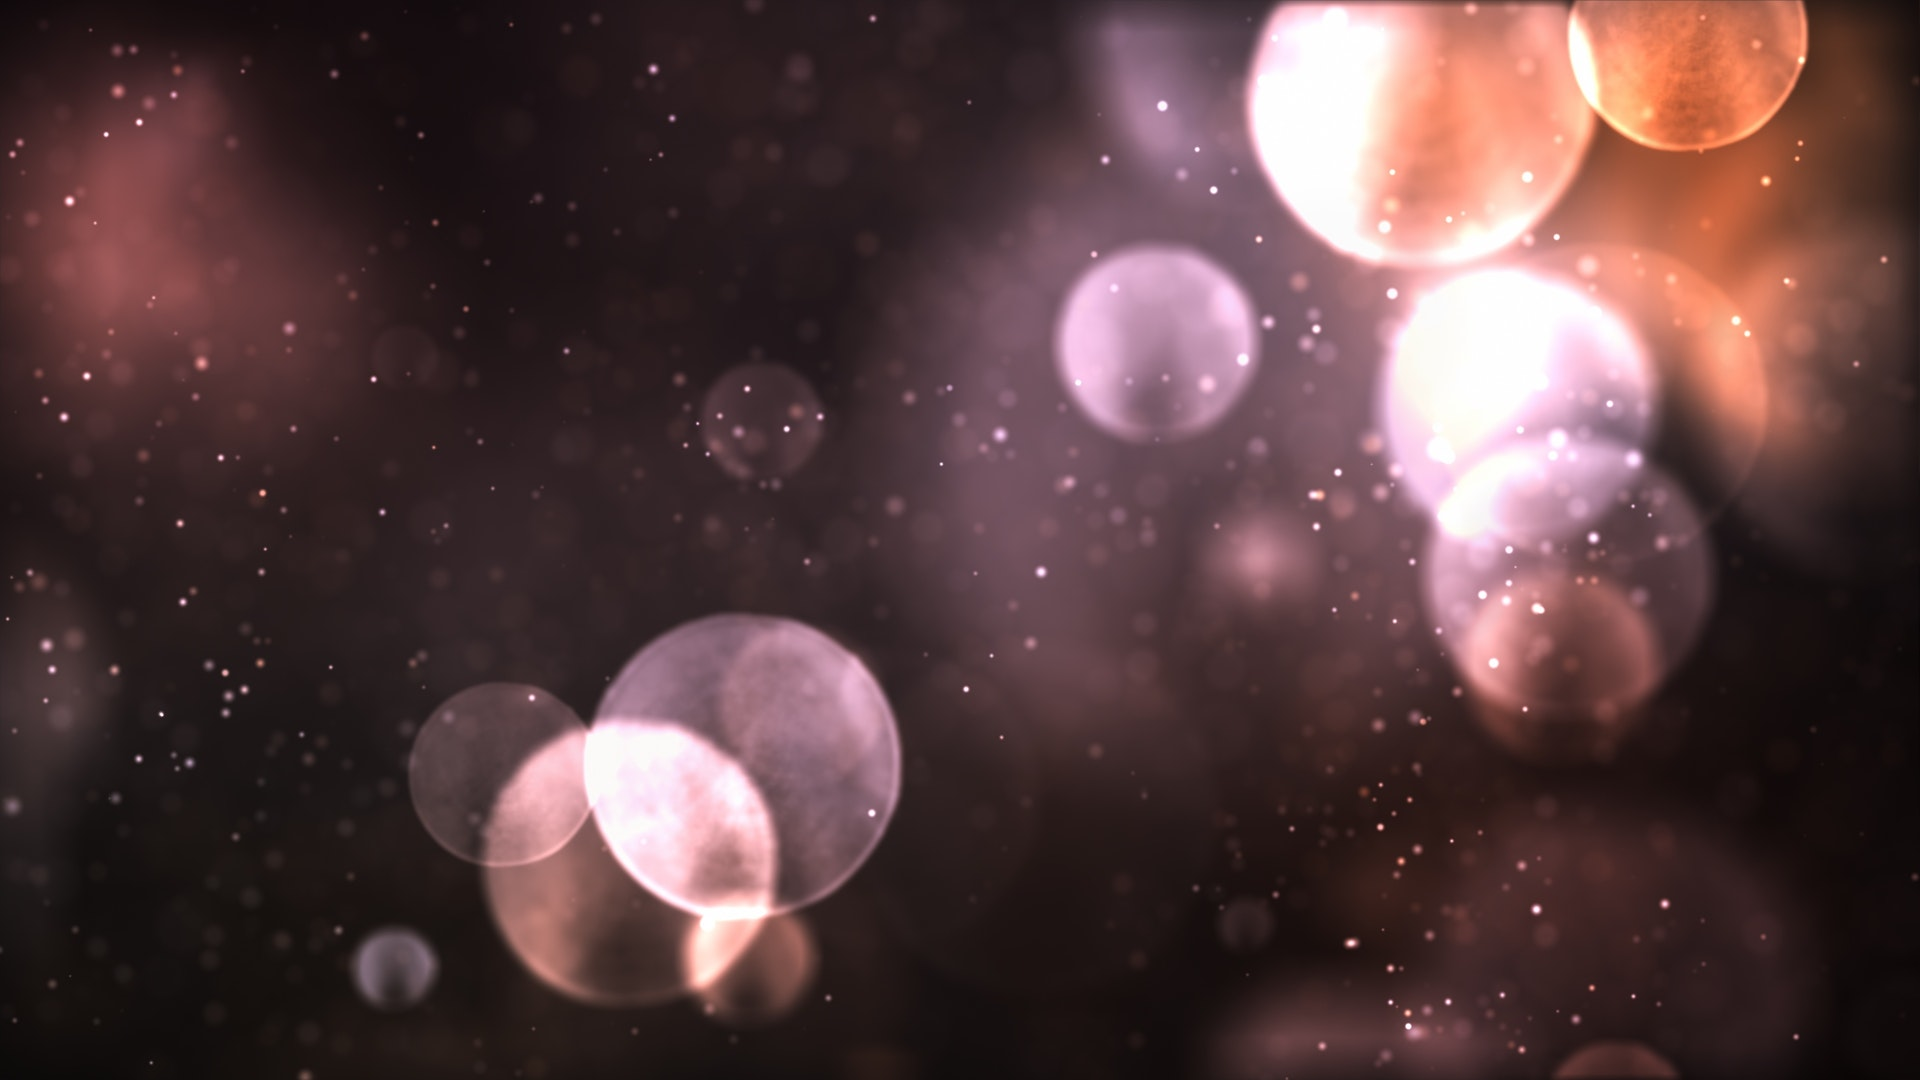
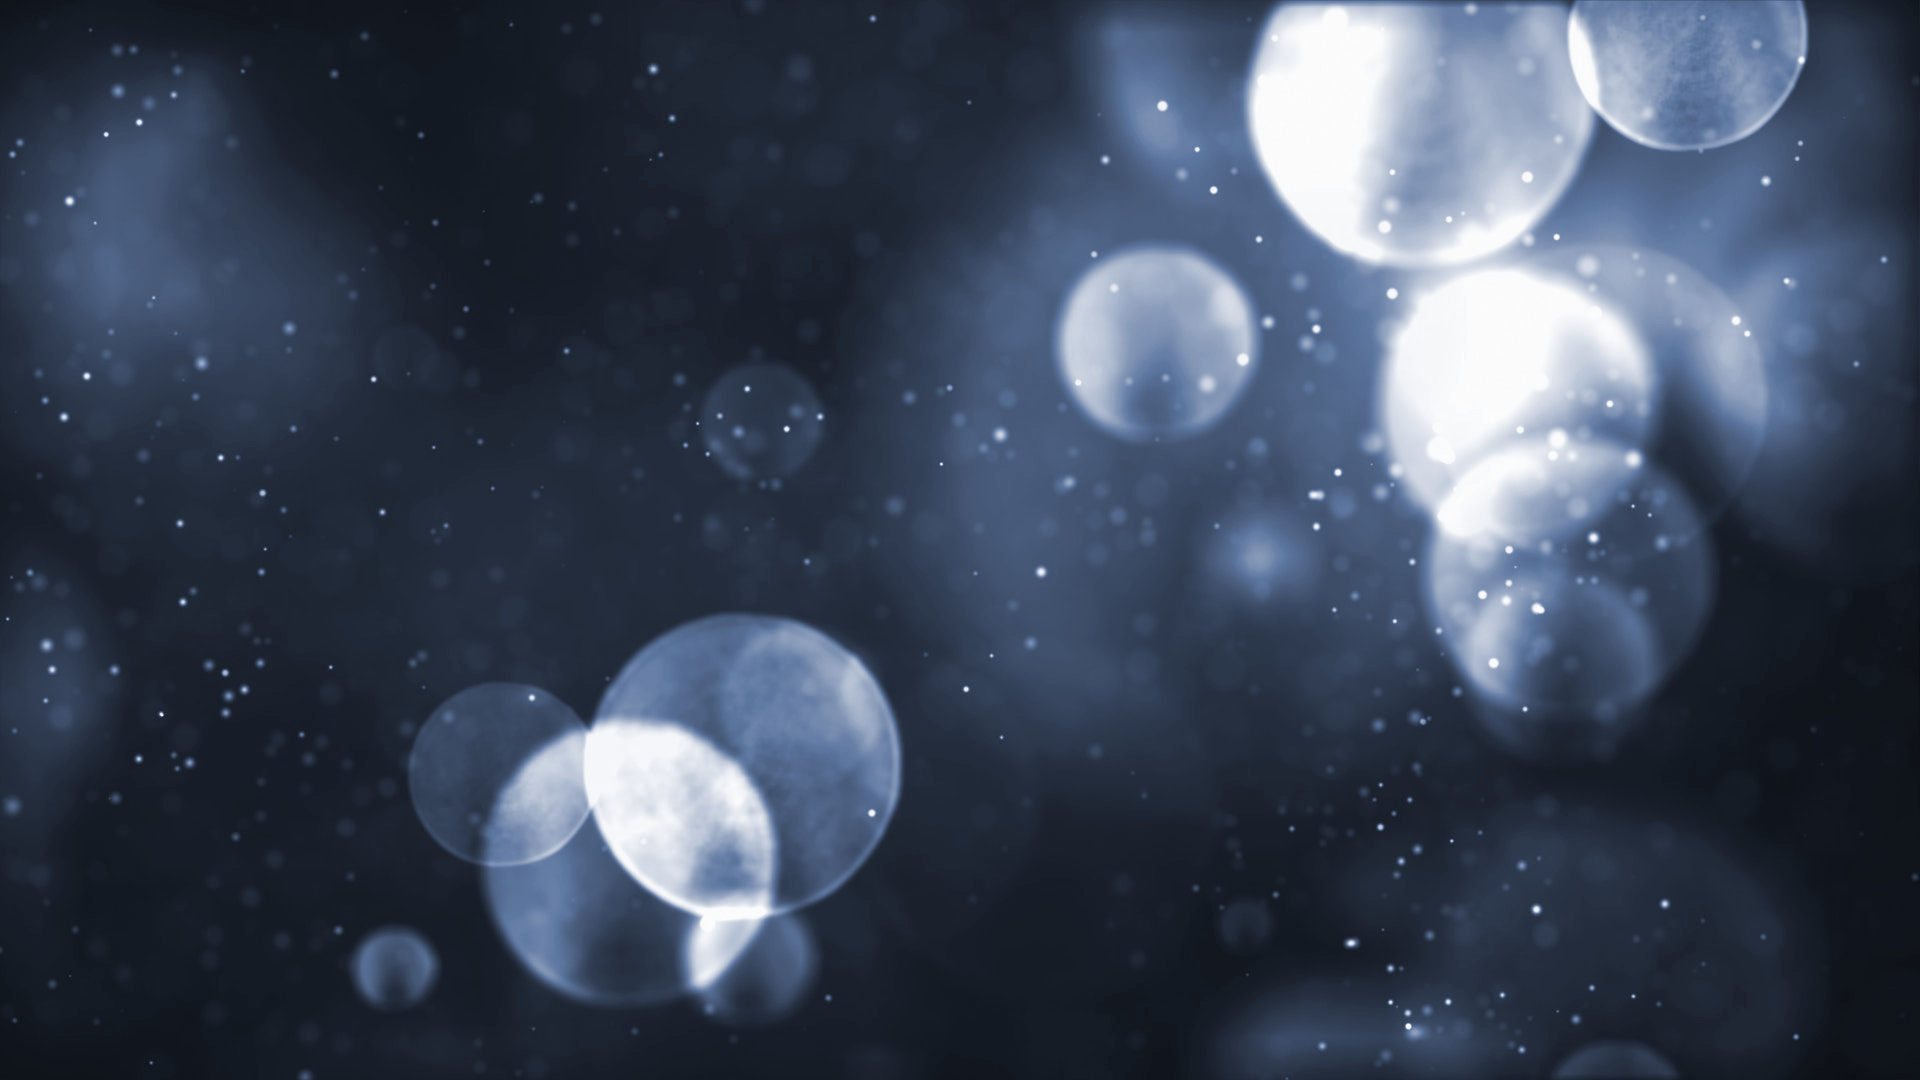
skills update

diff --git a/index.html b/index.html
@@ -66,48 +66,135 @@
       </div>
     </div>
 
-    <section class="section section-dark">
+    <section class="section section-dark" id="skillset">
       <div class="container">
         <div class="row">
-          <div class="col-sm-4">
+          <div class="col">
             <h3 class="header">Languages</h3>
             <ul class="list-group">
               <li class="list-group-item">
-                <img class="icon" src="./img/c-logo.png">
-
+                <div class="row">
+                  <div class="col-sm-12">
+                    <img class="icon" src="./img/c-logo.png">
+                  </div>
+                  <div class="col-sm-12">
+                    <strong>
+                      C/C++
+                    </strong>
+                  </div>
+                </div>
               </li>
               <li class="list-group-item">
-                <img class="icon" src="./img/java-logo.png">
-
+                <div class="row">
+                  <div class="col-sm-12">
+                    <img class="icon" src="./img/java-logo.png">
+                  </div>
+                  <div class="col-sm-12">
+                    <strong>
+                      Java
+                    </strong>
+                  </div>
+                </div>
               </li>
               <li class="list-group-item">
-                <img class="icon" src="./img/ruby-logo.png">
-
+                <div class="row">
+                  <div class="col-sm-12">
+                    <img class="icon" src="./img/ruby-logo.png">
+                  </div>
+                  <div class="col-sm-12">
+                    <strong>
+                      Ruby
+                    </strong>
+                  </div>
+                </div>
               </li>
             </ul>
           </div>
-          <div class="col-sm-4">
+
+          <div class="col">
             <h3 class="header">Design</h3>
             <ul class="list-group">
-              <li class="list-group-item">Object-oriented programming</li>
-              <li class="list-group-item">Penetration testing</li>
-              <li class="list-group-item">UI/UX design</li>
+              <li class="list-group-item">
+                <div class="row">
+                  <div class="col-sm-12">
+                    <img class="icon" src="./img/oop.png">
+                  </div>
+                  <div class="col-sm-12">
+                    <strong>
+                      Object-oriented Programming
+                    </strong>
+                  </div>
+                </div>
+              </li>
+              <li class="list-group-item">
+                <div class="row">
+                  <div class="col-sm-12">
+                    <img class="icon" src="./img/test.png">
+                  </div>
+                  <div class="col-sm-12">
+                    <strong>
+                      Software Testing
+                    </strong>
+                  </div>
+                </div>
+              </li>
+              <li class="list-group-item">
+                <div class="row">
+                  <div class="col-sm-12">
+                    <img class="icon" src="./img/uiux.png">
+                  </div>
+                  <div class="col-sm-12">
+                    <strong>
+                      UX/UI Design
+                    </strong>
+                  </div>
+                </div>
+              </li>
             </ul>
           </div>
-          <div class="col-sm-4">
+
+          <div class="col">
             <h3 class="header">Frameworks</h3>
             <ul class="list-group">
               <li class="list-group-item">
-                <img class="icon" src="./img/angular-logo.svg">
+                <div class="row">
+                  <div class="col-sm-12">
+                    <img class="icon" src="./img/angular-logo.svg">
+                  </div>
+                  <div class="col-sm-12">
+                    <strong>
+                      Angular
+                    </strong>
+                  </div>
+                </div>
               </li>
               <li class="list-group-item">
-                <img class="icon" src="./img/node-logo.png">
+                <div class="row">
+                  <div class="col-sm-12">
+                    <img class="icon" src="./img/node-logo.png">
+                  </div>
+                  <div class="col-sm-12">
+                    <strong>
+                      Node
+                    </strong>
+                  </div>
+                </div>
               </li>
               <li class="list-group-item">
-                <img class="icon" src="./img/ror-logo.png">
+                <div class="row">
+                  <div class="col-sm-12">
+                    <img class="icon" src="./img/ror-logo.png">
+                  </div>
+                  <div class="col-sm-12">
+                    <strong>
+                      Ruby on Rails
+                    </strong>
+                  </div>
+                </div>
               </li>
             </ul>
           </div>
+
         </div>
       </div>
     </section>
@@ -147,6 +234,7 @@
               </a>
             </div>
           </div>
+
           <div class="col-sm-4">
             <h3 class="header">Project 2</h3>
             <div id="carousel2" class="carousel slide" data-ride="carousel">
@@ -171,6 +259,7 @@
               </a>
             </div>
           </div>
+
           <div class="col-sm-4">
             <h3 class="header">Project 3</h3>
             <div id="carousel3" class="carousel slide" data-ride="carousel">
@@ -195,6 +284,7 @@
               </a>
             </div>
           </div>
+
         </div>
     </section>
 
@@ -209,7 +299,7 @@
         <br>
         <h5 class="header">Or</h5>
         <a href="https://www.linkedin.com/in/jacky-ma-7ba7a1113/" style="color:#f4f4f4">
-          <img class="contact-icon" src="./img/email.png">
+          <img class="contact-icon" src="./img/linkedin.svg">
           Get in touch through LinkedIn
         </a>
       </div>

diff --git a/css/styles.css b/css/styles.css
@@ -13,9 +13,9 @@ body, html{
   opacity:0.8;
 }
 
-/*.navbar:hover{
-  opacity:0.8;
-}*/
+/* .navbar:hover{
+  opacity:0.85;
+} */
 
 .pimg1, .pimg2, .pimg3{
   position:relative;
@@ -27,7 +27,7 @@ body, html{
 }
 
 .pimg1{
-  background-image:url('../img/image1-2.jpeg');
+  background-image:url('../img/image1.jpeg');
   min-height:100%;
 }
 
@@ -105,11 +105,13 @@ body, html{
 .icon{
   height:50px;
   width:auto;
+  padding:2px;
 }
 
 .contact-icon{
   height:20px;
   width:auto;
+  padding:2px;
 }
 
 .carousel-item{
@@ -136,6 +138,14 @@ body, html{
 .ptext .border.white{
   color:#000;
   background-color:#f4f4f4;
+}
+
+#skillset h3{
+  padding-top:40px;
+}
+
+#skillset .container{
+  padding-bottom:30px;
 }
 
 #particles-js{
